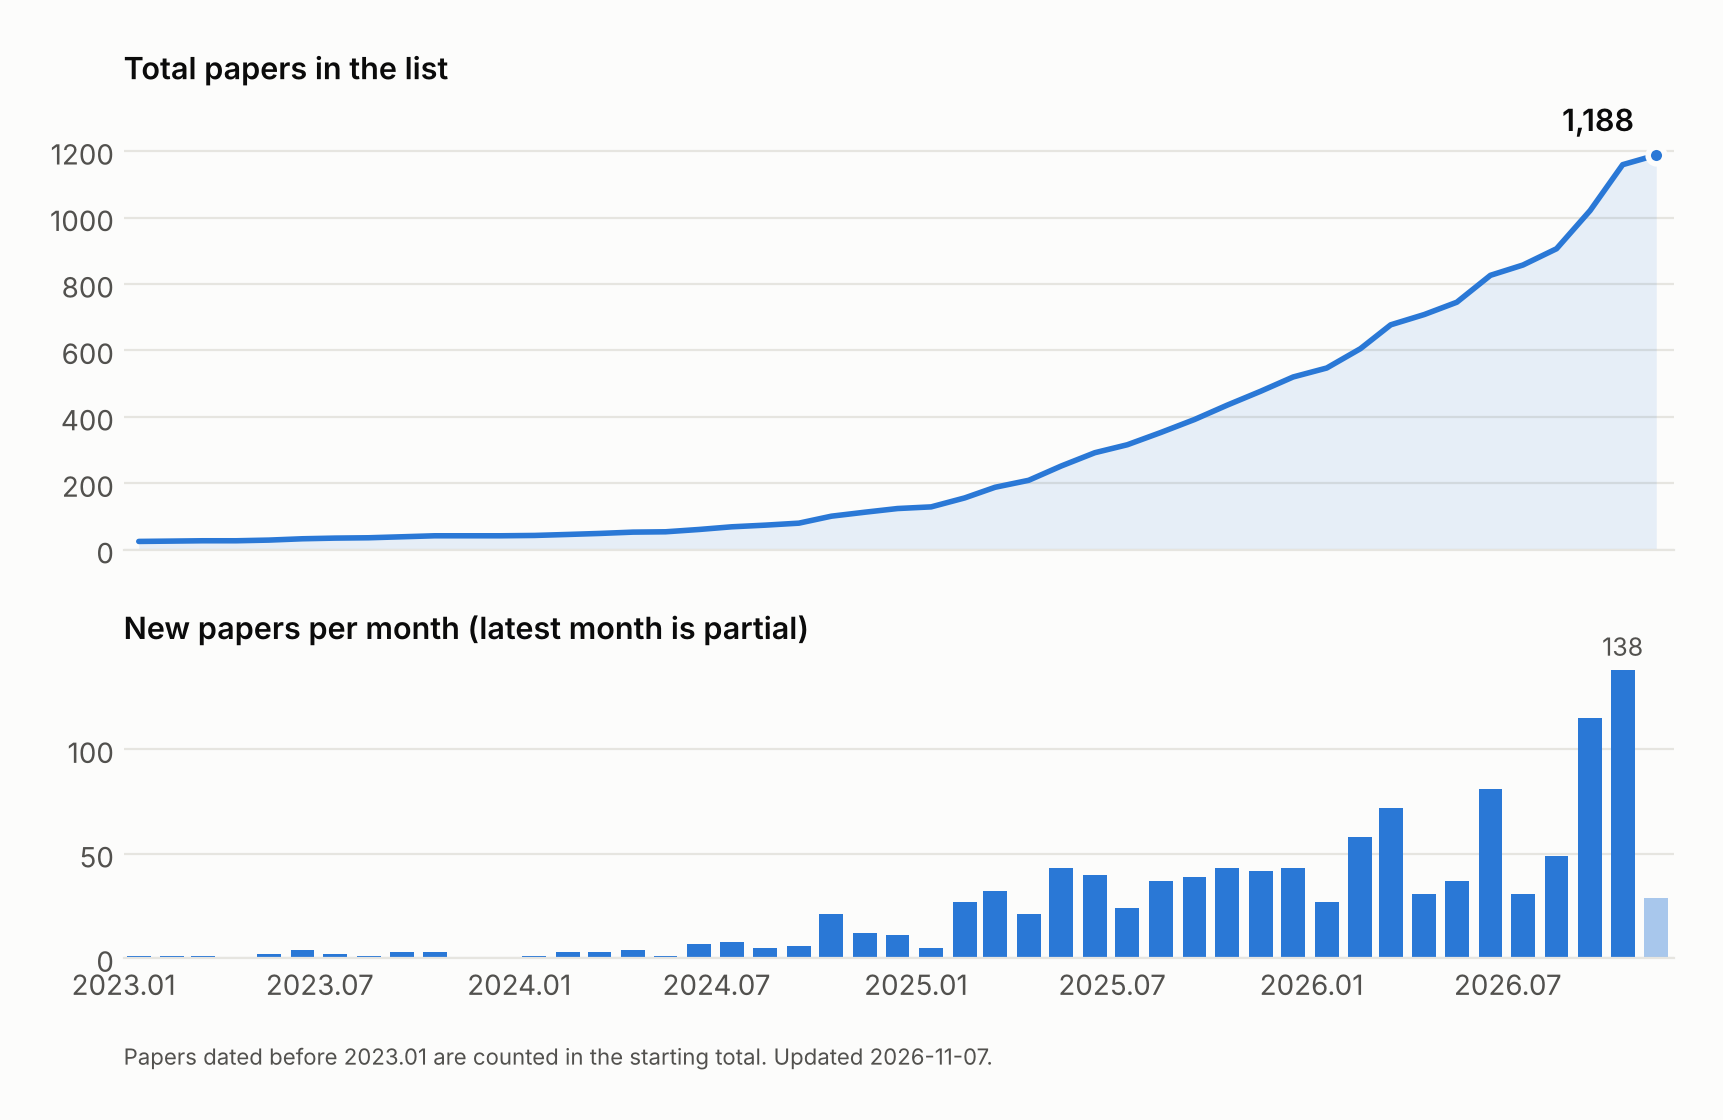
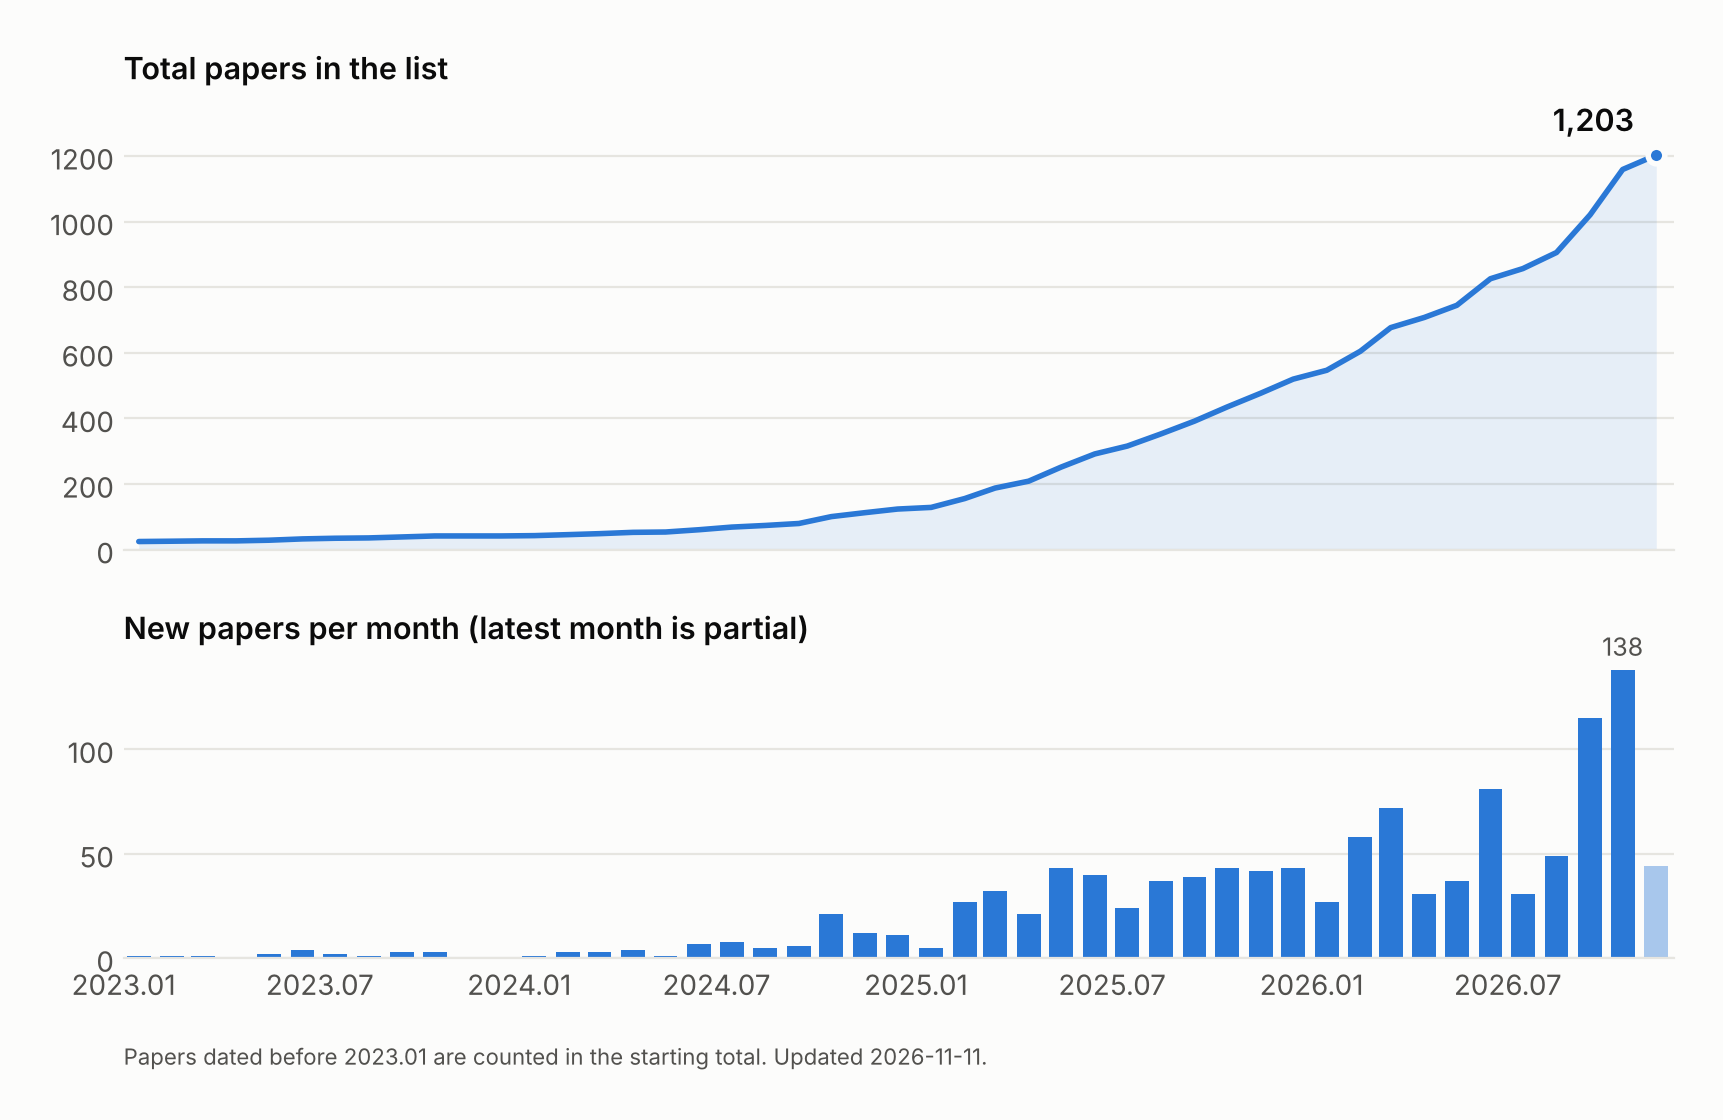
Add 10 papers from arXiv (2026-11-11)
Claude-Session: https://claude.ai/code/session_01T5jKYWVKmSBCqBQDYdknT4

diff --git a/README.md b/README.md
@@ -28,6 +28,10 @@ Feel free to pull a request for new papers/codes about humanoid robot learning.
 ---
 
 ## Loco-Manipulation and Whole-Body-Control
+- [arXiv 2026.11](https://arxiv.org/abs/2611.13370), AHEADance: Anticipatory Humanoid Dance from Streaming Audio
+- [arXiv 2026.11](https://arxiv.org/abs/2611.11554), Kimodo-Policy: Learning Kinematic Action Models for Humanoid Loco-Manipulation, [website](https://kimodo-policy.github.io/)
+- [arXiv 2026.11](https://arxiv.org/abs/2611.11127), From Festival Video to the Stage: A Sim-to-Real Ladder for Long-Horizon Expressive Whole-Body Dance on a Commercial Humanoid
+- [arXiv 2026.11](https://arxiv.org/abs/2611.10872), DreamVLA: From Generated Human Motions to Humanoid Vision-Language-Action Policies
 - [arXiv 2026.11](https://arxiv.org/abs/2611.09605), DKWBC: Decoupling Motion Tracking and Balancing for Humanoid Whole-Body Control, [website](https://robbyant-research.github.io/DKWBC/)
 - [arXiv 2026.11](https://arxiv.org/abs/2611.09266), SUGARv2: Learning Diverse Visual Humanoid Loco-Manipulation Skills from Synthesized Interaction References, [website](https://tianshuwu.github.io/sugarv2-humanoid/)
 - [arXiv 2026.11](https://arxiv.org/abs/2611.08664), ForPC: Force-Aware Whole-Body Control for Precise Humanoid Cart Pushing, [website](https://roboforpc.github.io/)
@@ -541,6 +545,9 @@ Feel free to pull a request for new papers/codes about humanoid robot learning.
 - [2024.08](https://la.disneyresearch.com/publication/vmp-versatile-motion-priors-for-robustly-tracking-motion-on-physical-characters/), VMP: Versatile Motion Priors for Robustly Tracking Motion on Physical Characters, [website](https://la.disneyresearch.com/publication/vmp-versatile-motion-priors-for-robustly-tracking-motion-on-physical-characters/)
 - [2024.07](https://la.disneyresearch.com/publication/robot-motion-diffusion-model-motion-generation-for-robotic-characters/), Robot Motion Diffusion Model: Motion Generation for Robotic Characters,
 ## Manipulation
+- [Humanoids 2026](https://arxiv.org/abs/2611.12409), Bridging Task Planning and Execution for Language-Conditioned Bimanual Manipulation
+- [arXiv 2026.11](https://arxiv.org/abs/2611.11981), Thermo-VLA: A Thermal-Aware Vision-Language-Action Model with Gated Residual Modulation for Robotic Manipulation
+- [arXiv 2026.11](https://arxiv.org/abs/2611.11854), Decoupled Asynchronous System for Humanoids (DASH): Latency-Agnostic Scaling of Vision-Language-Action Models for Humanoid Manipulation
 - [arXiv 2026.11](https://arxiv.org/abs/2611.07712), AffectiveVLA: Safe and Intent-Aware VLA Control for Human-Humanoid Social Interaction
 - [arXiv 2026.11](https://arxiv.org/abs/2611.05163), RoboTryOn: Synthesizing Dexterous Robot Demonstrations from Human Videos via Virtual Try-On, [website](https://ryan-seungyong-lee.github.io/RoboTryOn)
 - [arXiv 2026.10](https://arxiv.org/abs/2610.39044), Catch It All!: Generalizable Dynamic Catching with a Dexterous Hand
@@ -942,6 +949,8 @@ Feel free to pull a request for new papers/codes about humanoid robot learning.
 - [2024.10](https://openreview.net/forum?id=wH7Wv0nAm8), Bi-Level Motion Imitation for Humanoid Robots, [website](https://sites.google.com/view/bmi-corl2024)
 
 ## Navigation
+- [arXiv 2026.11](https://arxiv.org/abs/2611.12136), LHNav: Long-Horizon Humanoid Navigation via Multirate Coordination and Physics-Grounded Action Data
+- [arXiv 2026.11](https://arxiv.org/abs/2611.11665), HINT-VLM: Humanoid Interactive Navigation over Rough Terrain with Embodiment-Grounded Vision-Language Model
 - [arXiv 2026.11](https://arxiv.org/abs/2611.04972), Caging Vision-Language Navigation for Legged Robots via Barrier-Certified Safety Architecture
 - 🌟[arXiv 2026.10](https://arxiv.org/abs/2610.27688), Adaptive Traversal Tubes for Posture-Aware Navigation of Bipedal Humanoids
 - [arXiv 2026.10](https://arxiv.org/abs/2610.10748), TAPNAV: Humanoid Navigation through Tactile Active Perception
@@ -1095,6 +1104,7 @@ Feel free to pull a request for new papers/codes about humanoid robot learning.
 - [TRO 2017](https://ieeexplore.ieee.org/document/7827048), Proprioceptive actuator design in the MIT Cheetah: Impact mitigation and high‑bandwidth physical interaction for dynamic legged robots
 
 ## Simulation Benchmark
+- [arXiv 2026.11](https://arxiv.org/abs/2611.10994), RoboMoCap: A Large-Scale Whole-Body Motion Capture Dataset with Egocentric Vision for Robot Learning, [website](https://bitrobot-foundation.github.io/robomocap/)
 - [arXiv 2026.10](https://arxiv.org/abs/2610.30876), LocoManiLab: A Unified Testbed for Data, Policies, Controllers, and Deployment in Humanoid Loco-Manipulation
 - 🌟[arXiv 2026.10](https://arxiv.org/abs/2610.10388), RoboQuest: Generalist Physical Agents that Search, Inspect and Test, [website](https://declare-lab.github.io/RoboQuest/)
 - [arXiv 2026.10](https://arxiv.org/abs/2610.10198), Benchmarking Behavioral Steerability in Behavior Foundation Models
